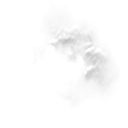
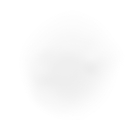
PvP countdown: simple smooth smoke with a faint wave, higher and bigger, reels start sooner; no chances until the battle starts

diff --git a/app/utils/forgeEffects.ts b/app/utils/forgeEffects.ts
@@ -21,7 +21,7 @@ import { RARITY_HEX } from './rarity'
  *               (the label's middle sits at y ≈ 300)
  *   kdBlaze   — kdBurn turned up for a small plate that must read as on fire (a limited case's stock): tall licks
  *               that clear the plate's top edge, a denser shower of embers, a hotter glow; same base line
- *   kdPuff    — one-shot: white clubs of smoke roll out low and flat from the middle, stop short and hang as they thin
+ *   kdPuff    — one-shot: a faint wave leaves the middle while white clubs of smoke roll out, stop short and thin away
  *   kdRank    — Forge's rank reveal (motion pack, `tier`: base → luck → mega → ultra → jackpot) in the rarity's own
  *               colour, one burst on the drop's rarity shape; opts { color: '#hex', level: 0…4 }
  */
@@ -404,12 +404,13 @@ export function defineKdEffects(engine: Engine) {
     },
   }))
 
+  // A few clubs, not big: the cost of smoke is the area of its squares, not their number (each is overdrawn).
   // Fast out, then almost still: the air stops the smoke. Flattened in y, so a floor lies under it. Normal blending: smoke is
   // matter, not light
   const SMOKE: Rgb = [1, 1, 1]
   engine.define('kdPuff', (h) => ({
     atlas: 'kd',
-    period: 2,
+    period: 1.4,
     init: (s) => Object.assign(s, { fired: false, sp: [] as Particle[] }),
     update(s, dt, at) {
       const { R, pick } = h
@@ -418,15 +419,17 @@ export function defineKdEffects(engine: Engine) {
         s.fired = true
         const clubs = [at.map.smoke1, at.map.smoke2, at.map.smoke3, at.map.smoke4]
         const first = R(0, 6.28)
-        for (let i = 0; i < 14; i++) {
-          const a = first + (i / 14) * 6.28 + R(-0.2, 0.2)
-          const v = R(130, 400)
-          h.spawn(sp, { x: 180 + Math.cos(a) * 34, y: 196 + Math.sin(a) * 12, vx: Math.cos(a) * v, vy: Math.sin(a) * v * 0.32 - R(6, 26), drag: 3.8, size: R(90, 170), sc: [[0, 0.45], [0.25, 0.9], [1, 1.6]], life: R(1, 1.7), rot: R(0, 6.28), vr: R(-0.35, 0.35), cells: [pick(clubs)], add: 0, alpha: 0.46, tint: SMOKE, fadeIn: 0.05, fadeOut: 0.8 })
+        for (let i = 0; i < 9; i++) {
+          const a = first + (i / 9) * 6.28 + R(-0.2, 0.2)
+          const v = R(150, 320)
+          h.spawn(sp, { x: 180 + Math.cos(a) * 34, y: 172 + Math.sin(a) * 12, vx: Math.cos(a) * v, vy: Math.sin(a) * v * 0.4 - R(24, 60), drag: 3.2, size: R(110, 160), sc: [[0, 0.5], [0.3, 0.9], [1, 1.4]], life: R(0.9, 1.3), rot: R(0, 6.28), vr: R(-0.35, 0.35), cells: [pick(clubs)], add: 0, alpha: 0.46, tint: SMOKE, fadeIn: 0.05, fadeOut: 0.8 })
         }
       }
       h.step(sp, dt)
     },
     render(s, c) {
+      const k = s.t / 0.6
+      if (k < 1) h.sprite(c, 180, 172, 70 + 330 * h.easeOut(k), 0, (1 - k) * 0.16, 1, c.at.map.ring!, 0.72, SMOKE)
       h.draw(c, s.sp as Particle[])
     },
   }))

diff --git a/app/components/pvp/Room.vue b/app/components/pvp/Room.vue
@@ -231,13 +231,13 @@ function runCount() {
   countTimers = []
   countHome.value = true
   prepareCount()
-  at(4200, () => countBeat(3))
-  at(3200, () => countBeat(2))
-  at(2200, () => countBeat(1))
-  at(1200, () => countBeat(0))
-  at(700, () => (countSink.value = true))
-  at(350, () => (countHome.value = false))
-  at(280, countLanded)
+  at(4000, () => countBeat(3))
+  at(3000, () => countBeat(2))
+  at(2000, () => countBeat(1))
+  at(1000, () => countBeat(0))
+  at(620, () => (countSink.value = true))
+  at(270, () => (countHome.value = false))
+  at(200, countLanded)
 }
 watch(countdown, (n, old) => n > 0 && !old && nextTick(runCount))
 onMounted(() => {
@@ -560,7 +560,7 @@ const roundLine = computed(() => {
           <span class="kd-team-name truncate" :class="[isMobile ? 'type-12-caps' : 'type-16-caps', `is-${TEAM_SIDE[gi]}`]">{{ $t(`pvp.team.${TEAM_SIDE[gi]}${isMobile ? 'Short' : ''}`) }}</span>
           <UiPrice :amount="groupTotal(g)" :size="isMobile ? 's' : 'm'" :tone="teamState(g) === 'lost' ? 'muted' : teamState(g) === 'won' ? 'default' : 'coin'" class="kd-fade tabular-nums" :class="revealed > 0 && 'is-on'" />
         </span>
-        <span class="flex shrink-0 flex-col items-end gap-1">
+        <span v-if="b.status !== 'waiting'" class="flex shrink-0 flex-col items-end gap-1">
           <span :class="[isMobile ? 'type-14-caps' : 'type-20-caps', done ? (teamState(g) === 'won' ? 'text-success' : 'text-neutral-11') : teamState(g) === 'lead' ? 'text-success' : 'text-neutral-15', !done && 'tabular-nums']">{{ done ? $t(teamState(g) === 'won' ? 'pvp.won' : 'pvp.lost') : `${Math.round(chances[g[0]!.slot] ?? 0)}%` }}</span>
           <span v-if="!isMobile" class="type-10-caps" :class="teamState(g) === 'won' ? 'text-success' : 'text-neutral-11'">{{ done ? $t('pvp.result') : $t('pvp.toWin') }}</span>
         </span>
@@ -573,7 +573,7 @@ const roundLine = computed(() => {
         :total="totals[s.slot]"
         :winner="done && winners.includes(s.slot)"
         :lead="leaders.includes(s.slot)"
-        :chance="s.player && !done ? chances[s.slot] : undefined"
+        :chance="s.player && !done && b.status !== 'waiting' ? chances[s.slot] : undefined"
         :result="s.player && done ? (winners.includes(s.slot) ? 'won' : 'lost') : undefined"
         :compact="isMobile"
         :can-join="!s.player && b.status === 'waiting' && !youIn"

diff --git a/shared/utils/battle.ts b/shared/utils/battle.ts
@@ -33,7 +33,7 @@ export function splitWin<T extends { price: number }>(drops: T[], winners: numbe
 }
 
 /** From the last seat filling to the first reel: the countdown's 3, 2, 1, the VS and its smoke */
-export const BATTLE_LEAD_MS = 4200
+export const BATTLE_LEAD_MS = 4000
 
 export function battleWinners(mode: BattleMode, totals: number[], tie: number): number[] {
   if (mode === 'team') {

diff --git a/scripts/build-smoke-sprites.py b/scripts/build-smoke-sprites.py
@@ -1,5 +1,5 @@
-# Soft smoke clubs for Forge's kd atlas: domain-warped fractal noise under a torn round mask, lit from above, so a club reads
-# as real smoke and not as a drawn shape. Output: scripts/forge-art/smoke1…4.png, picked up by build-forge-atlas.mjs.
+# Soft smoke clubs for Forge's kd atlas: a little low-frequency noise under a round mask, lit from above: simple, smooth puffs
+# with no fine detail, which read as smoke at speed. Output: scripts/forge-art/smoke1…4.png, picked up by build-forge-atlas.mjs.
 # Usage: python scripts/build-smoke-sprites.py
 from pathlib import Path
 
@@ -16,7 +16,7 @@ def noise(rng, cells):
     return np.asarray(Image.fromarray(grid).resize((N, N), Image.BICUBIC), dtype='float32') / 255
 
 
-def fbm(rng, base=3, octaves=6, gain=0.55):
+def fbm(rng, base=2, octaves=3, gain=0.5):
     out, amp, total = np.zeros((N, N), 'float32'), 1.0, 0.0
     for o in range(octaves):
         out += amp * noise(rng, base * 2**o)
@@ -37,15 +37,13 @@ def smoothstep(a, b, v):
 
 def club(seed):
     rng = np.random.default_rng(seed)
-    # warped twice: the billows of real smoke, not the flat clouds of plain noise
-    base = warp(fbm(rng), (fbm(rng) - 0.5) * 150, (fbm(rng) - 0.5) * 150)
-    base = warp(base, (fbm(rng) - 0.5) * 60, (fbm(rng) - 0.5) * 60)
+    base = warp(fbm(rng), (fbm(rng) - 0.5) * 90, (fbm(rng) - 0.5) * 90)
     yy, xx = np.mgrid[-1:1:N * 1j, -1:1:N * 1j]
-    r = np.hypot(xx, yy) + (fbm(rng, 4) - 0.5) * 0.65
-    mask = smoothstep(0.86, 0.22, r)
-    density = smoothstep(0.34, 0.68, base) * mask
+    r = np.hypot(xx, yy) + (fbm(rng) - 0.5) * 0.4
+    mask = 1 - smoothstep(0.2, 0.9, r)
+    density = (0.45 + 0.55 * smoothstep(0.32, 0.66, base)) * mask
     # lit from above: brighter where the density falls away downwards
-    light = np.clip(0.76 + (density - np.roll(density, 14, axis=0)) * 1.1, 0.5, 1)
+    light = np.clip(0.86 + (density - np.roll(density, 40, axis=0)) * 0.5, 0.7, 1)
     rgba = np.dstack([light, light, light, density])
     img = Image.fromarray((rgba * 255).astype('uint8'), 'RGBA')
     return img.resize((OUT, OUT), Image.LANCZOS)
